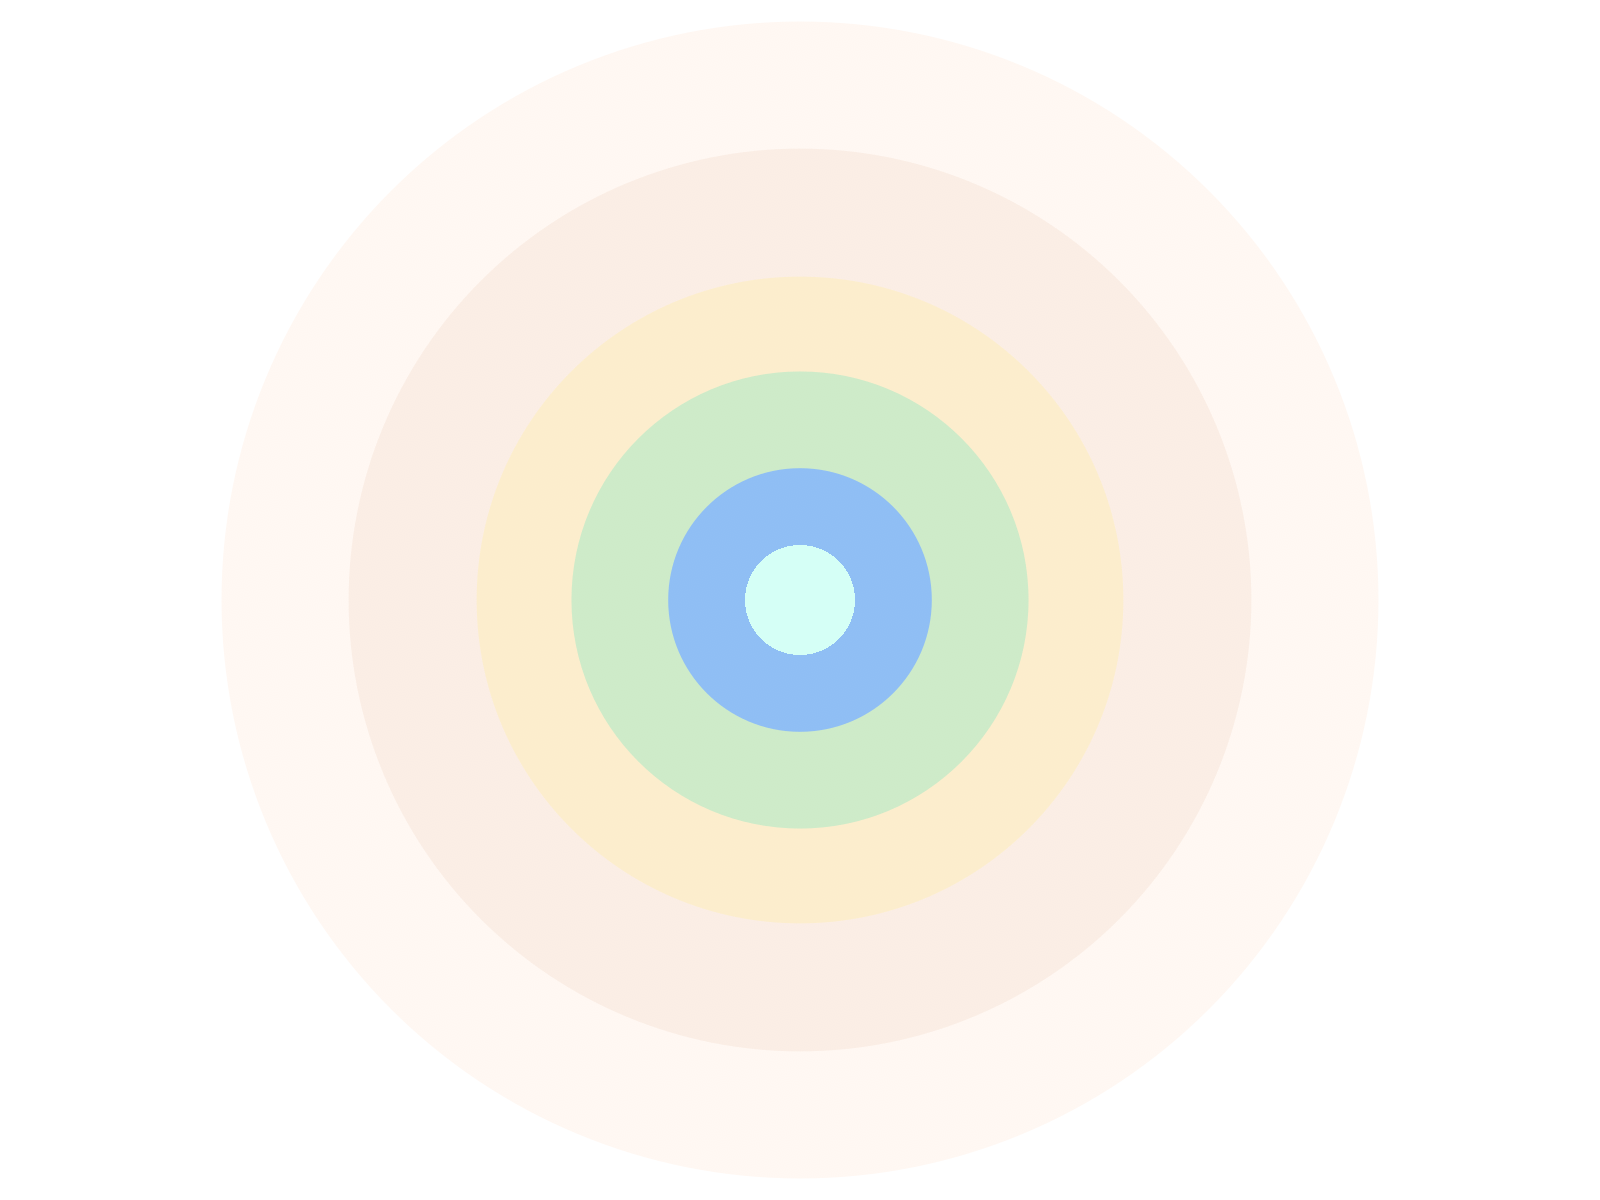
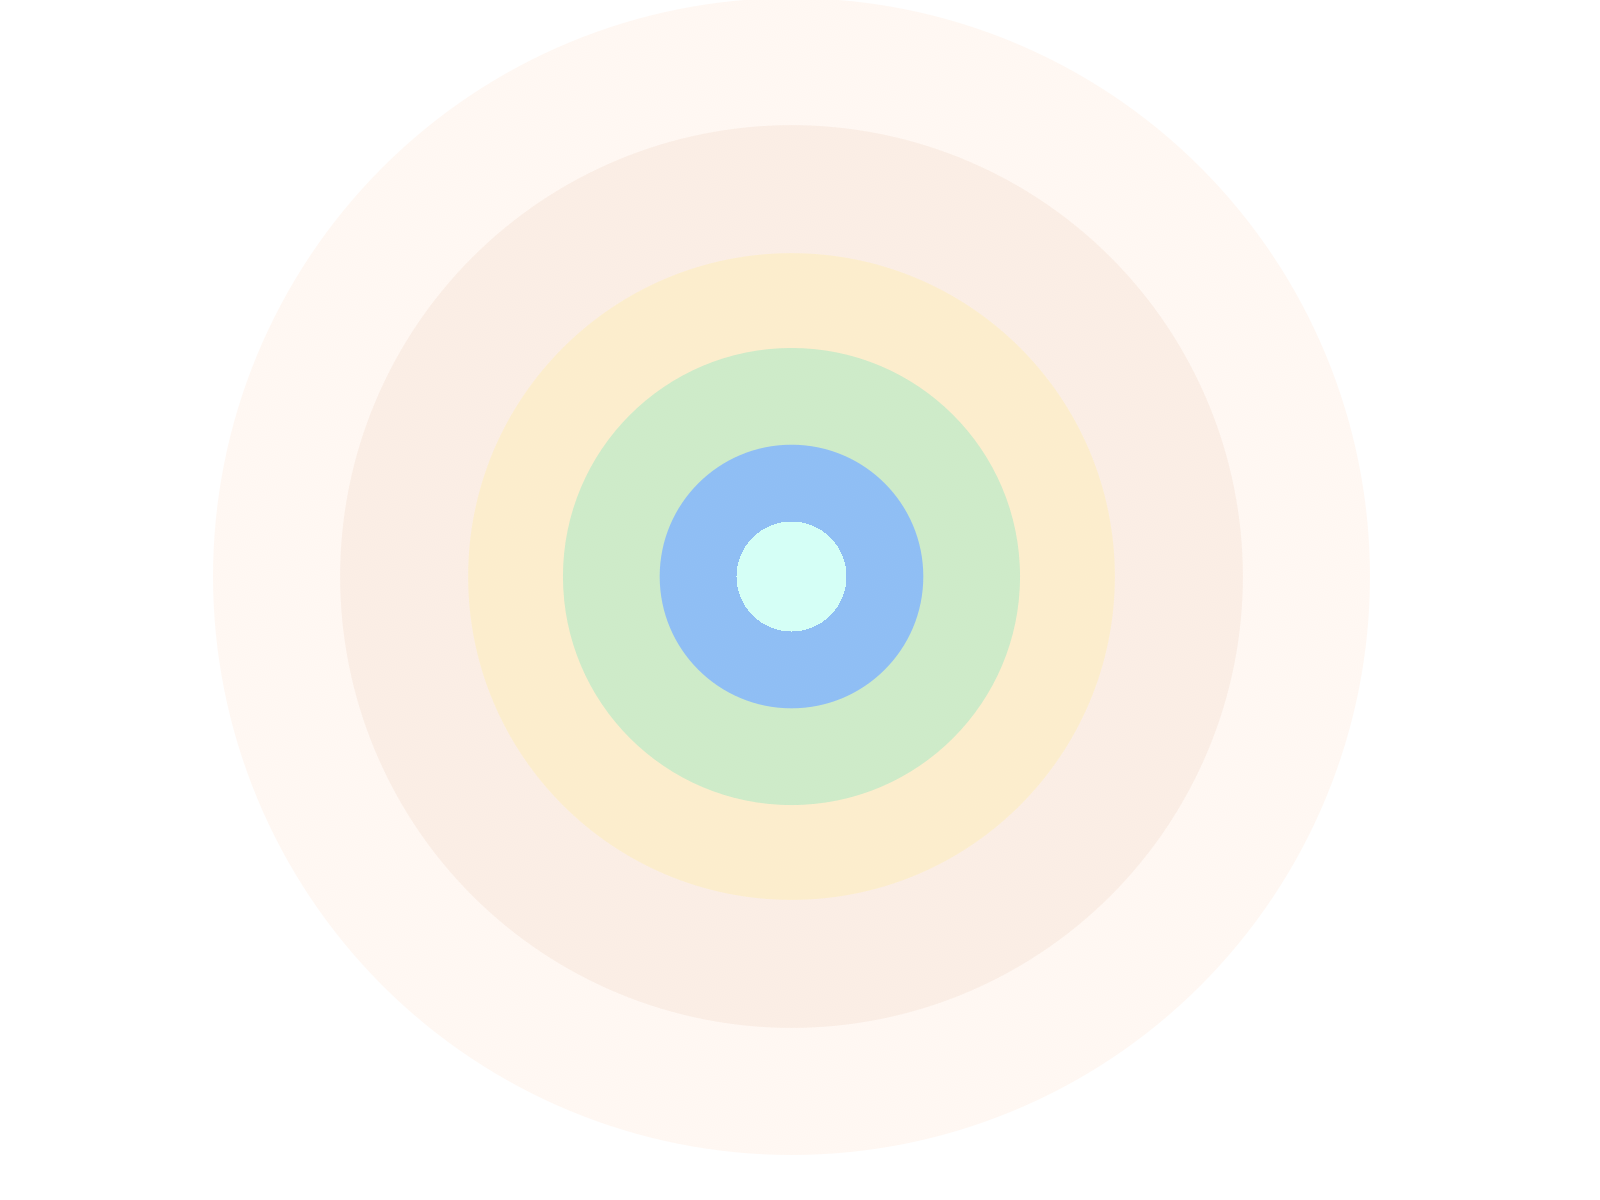
Calibrate, mirror the camera image, gun trigger on external button

diff --git a/TargetLaserDetector/data_server.h b/TargetLaserDetector/data_server.h
@@ -58,8 +58,8 @@ void BroadcastPoint() {
     }
 
     Point p;
-    int w,h;
-    int res = GetPoint(&p,&w,&h);
+    int w, h;
+    int res = GetPoint(&p, &w, &h);
 
     if (p.found) {
       PointPacket pp;
@@ -81,7 +81,7 @@ void BroadcastPoint() {
       Serial.println("Point found");
       lastIDp.clientId = 0;
 
-      while(p.found){
+      while (p.found) {
         int res = GetPoint(&p);
       }
     }
@@ -93,4 +93,15 @@ void SendKA() {
   p.n = KAn;
   KAn++;
   udp.broadcastTo((uint8_t *)&p, sizeof(KeepAlivePacket), 19700);
+}
+
+void StabiliseCamera() {
+  Point p;
+  int w, h;
+  int res = GetPoint(&p, &w, &h);
+  if (p.found) {
+    while (p.found) {
+      int res = GetPoint(&p);
+    }
+  }
 }

diff --git a/TargetLaserDetector/dfplayer.h b/TargetLaserDetector/dfplayer.h
@@ -4,7 +4,7 @@
 DFRobotDFPlayerMini myDFPlayer;
 
 void PlayInfoSound(int i) {
-  myDFPlayer.volume(8);
+  myDFPlayer.volume(20);
   myDFPlayer.playFolder(1, i);
   delay(2000);
   myDFPlayer.volume(30);
